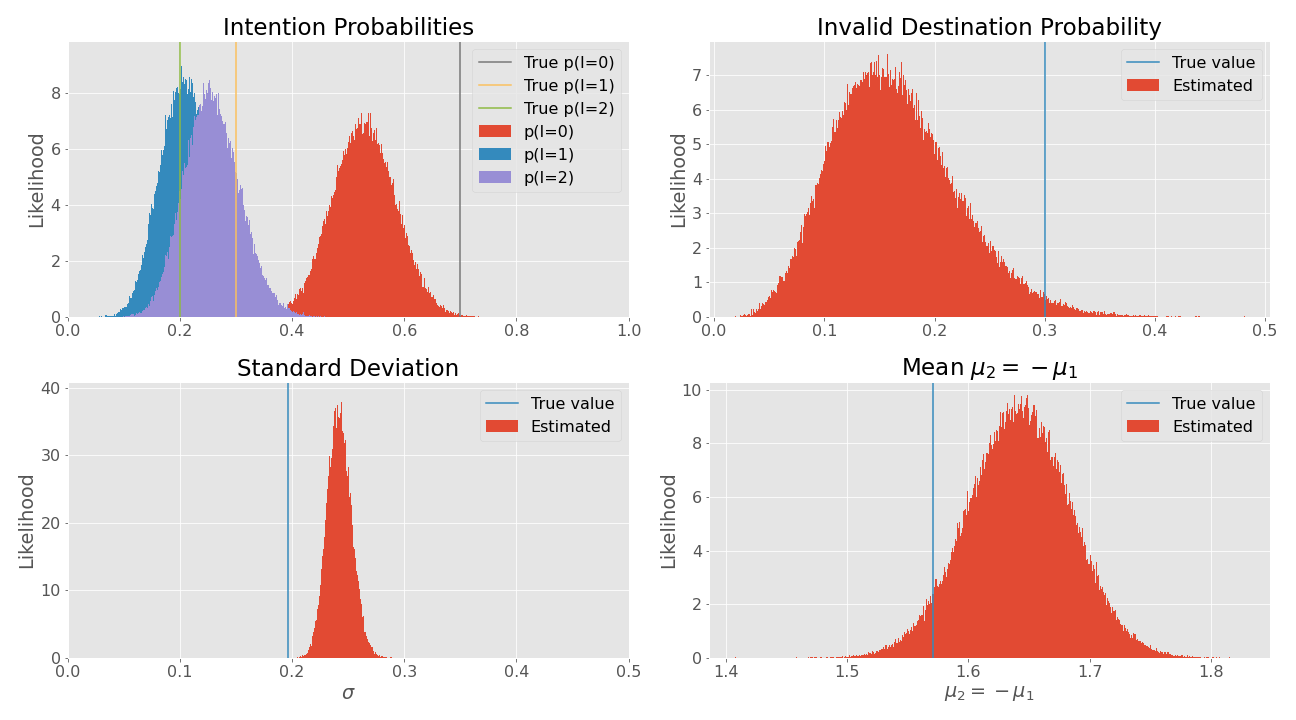
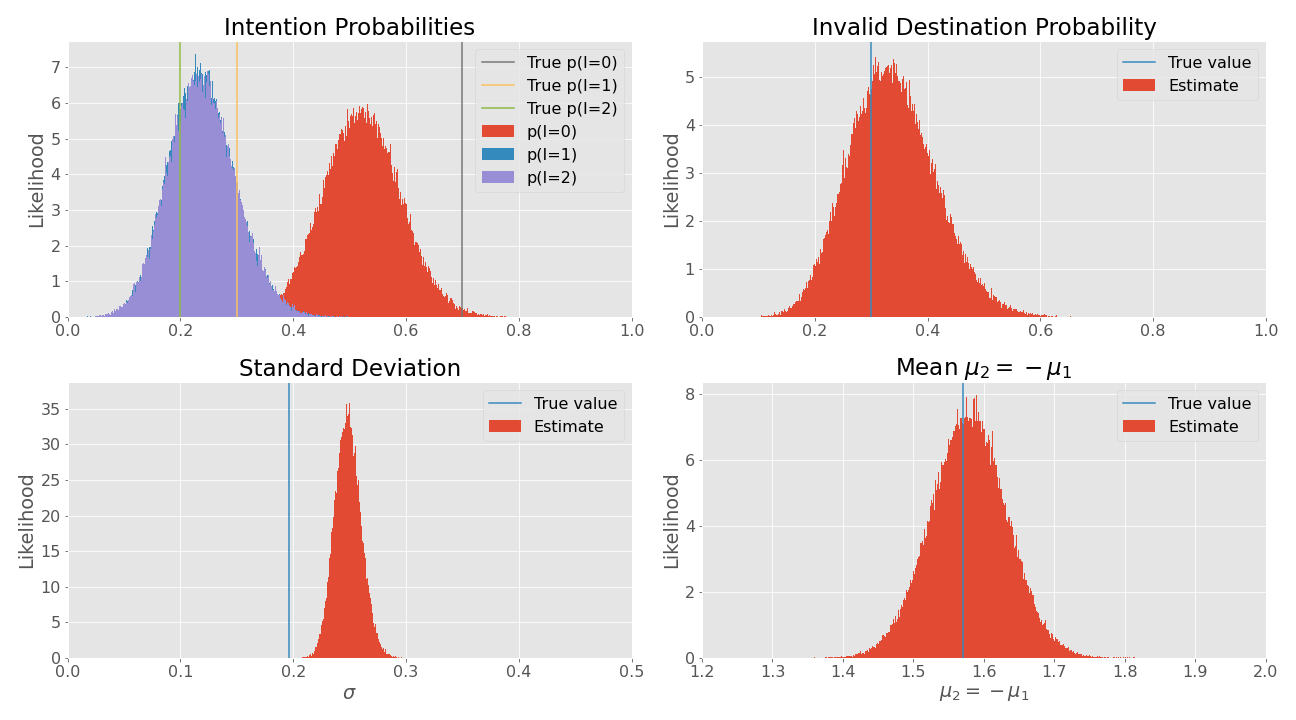
Add plots

diff --git a/chapters/4-implementation-and-result.tex b/chapters/4-implementation-and-result.tex
@@ -151,7 +151,10 @@ The Stochastic Gradient Descent (SGD) optimizer \texttt{tf.optimizers.Adam} was 
 
 \section{Results}
 
-\subsection{Case 1}
+\subsection{Observation One: More data yields better results}
+Two datasets were randomly generated using the same fixed parameters in \cref{tbl:example_case_1_params}, but with different number of samples. The first dataset consists of $N_1=500$ samples, while the second contains twice as many with $N_2=1000$ samples. 
+
+The
 \begin{table}[h]
 \centering
 \begin{tabular}{lllll}
@@ -159,17 +162,19 @@ The Stochastic Gradient Descent (SGD) optimizer \texttt{tf.optimizers.Adam} was 
 \textbf{True value:} & $[0.7, 0.3, 0.1]$     & $0.3$ & $[0, -\frac{\pi}{2}, \frac{\pi}{2}]$ & $\frac{\pi}{16}$
 \end{tabular}
 \caption{True values used to generate the dataset for example case 1.}
+\label{tbl:example_case_1_params}
 \end{table}
 
-\subsubsection{VI}
 \begin{figure}[h]
     \centering
     \begin{subfigure}{\textwidth}
     \includegraphics[width=\textwidth]{figures/example_1_vi_posterior.png}
+    \caption{\acrshort{vi}}
     \end{subfigure}
     \begin{subfigure}{\textwidth}
     \includegraphics[width=\textwidth]{figures/example_1_mcmc_posterior.png}
+    \caption{\acrshort{mcmc}}
     \end{subfigure}
-    \caption{Posterior Distribution using \acrshort{vi} as inference method.}
+    \caption{Posterior Distribution for example case 1 using \acrshort{vi} and \acrshort{mcmc} methods for inference}
     \label{fig:example_case_1_vi}
 \end{figure}
